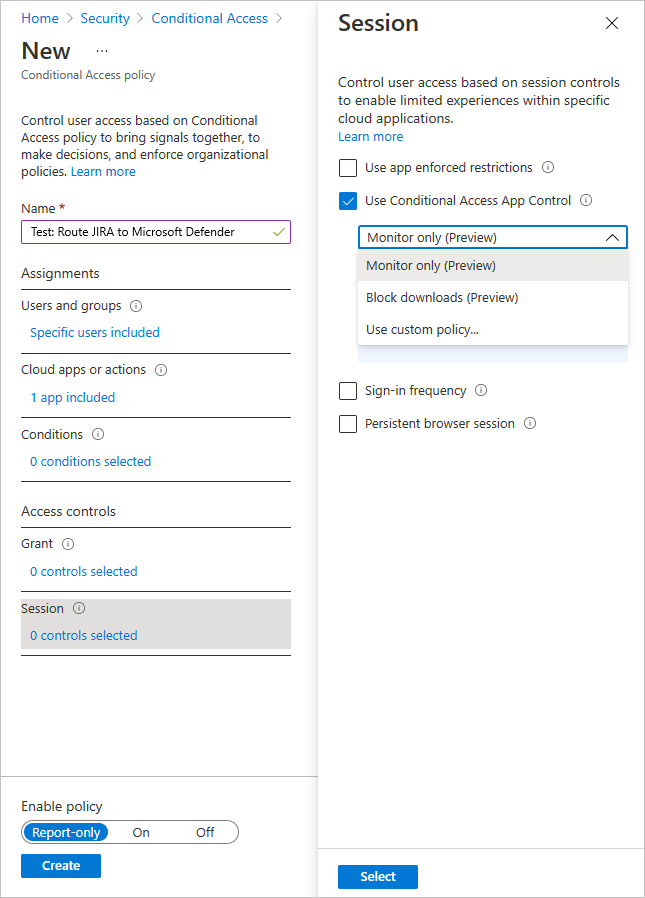
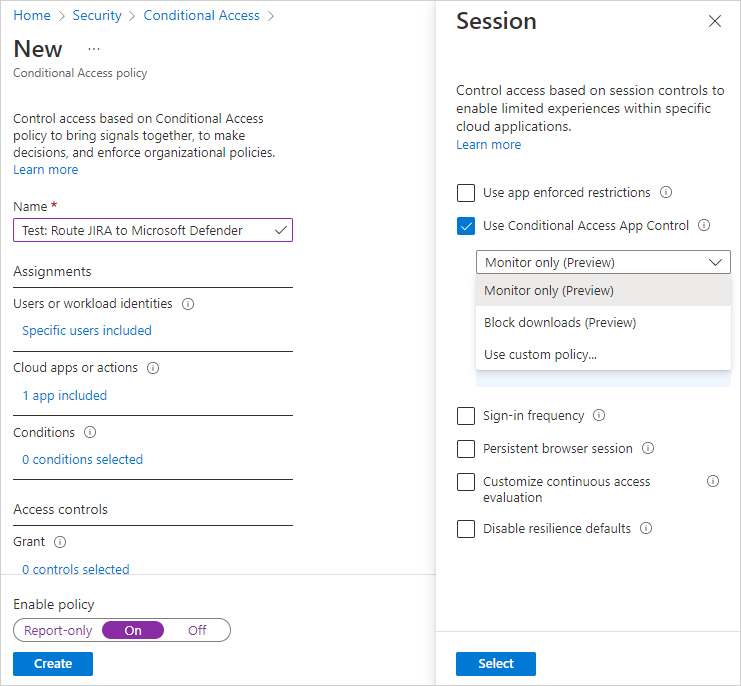
replace caac image

diff --git a/CloudAppSecurityDocs/proxy-deployment-any-app.md b/CloudAppSecurityDocs/proxy-deployment-any-app.md
@@ -62,13 +62,13 @@ Follow these steps to configure any app to be controlled by Defender for Cloud A
 
 1. In Azure AD, browse to **Security** > **Conditional Access**.
 
-1. On the **Conditional Access** pane, in the toolbar at the top, select **New policy**.
+1. On the **Conditional Access** pane, in the toolbar at the top, select **New policy** -> **Create new policy**.
 
 1. On the **New** pane, in the **Name** textbox, enter the policy name.
 
-1. Under **Assignments**, select **Users and groups**, assign the users that will be onboarding (initial sign-on and verification) the app, and then select **Done**.
+1. Under **Assignments**, select **Users or workload identities**, assign the users that will be onboarding (initial sign-on and verification) the app, and then select **Done**.
 
-1. Under **Assignments**, select **Cloud apps**, assign the apps you want to control with Conditional Access App Control, and then select **Done**.
+1. Under **Assignments**, select **Cloud apps or actions**, assign the apps you want to control with Conditional Access App Control, and then select **Done**.
 
 1. Under **Access controls**, select **Session**, select **Use Conditional Access App Control**, and choose a built-in policy (**Monitor only** or **Block downloads**) or **Use custom policy** to set an advanced policy in Defender for Cloud Apps, and then click **Select**.
 
